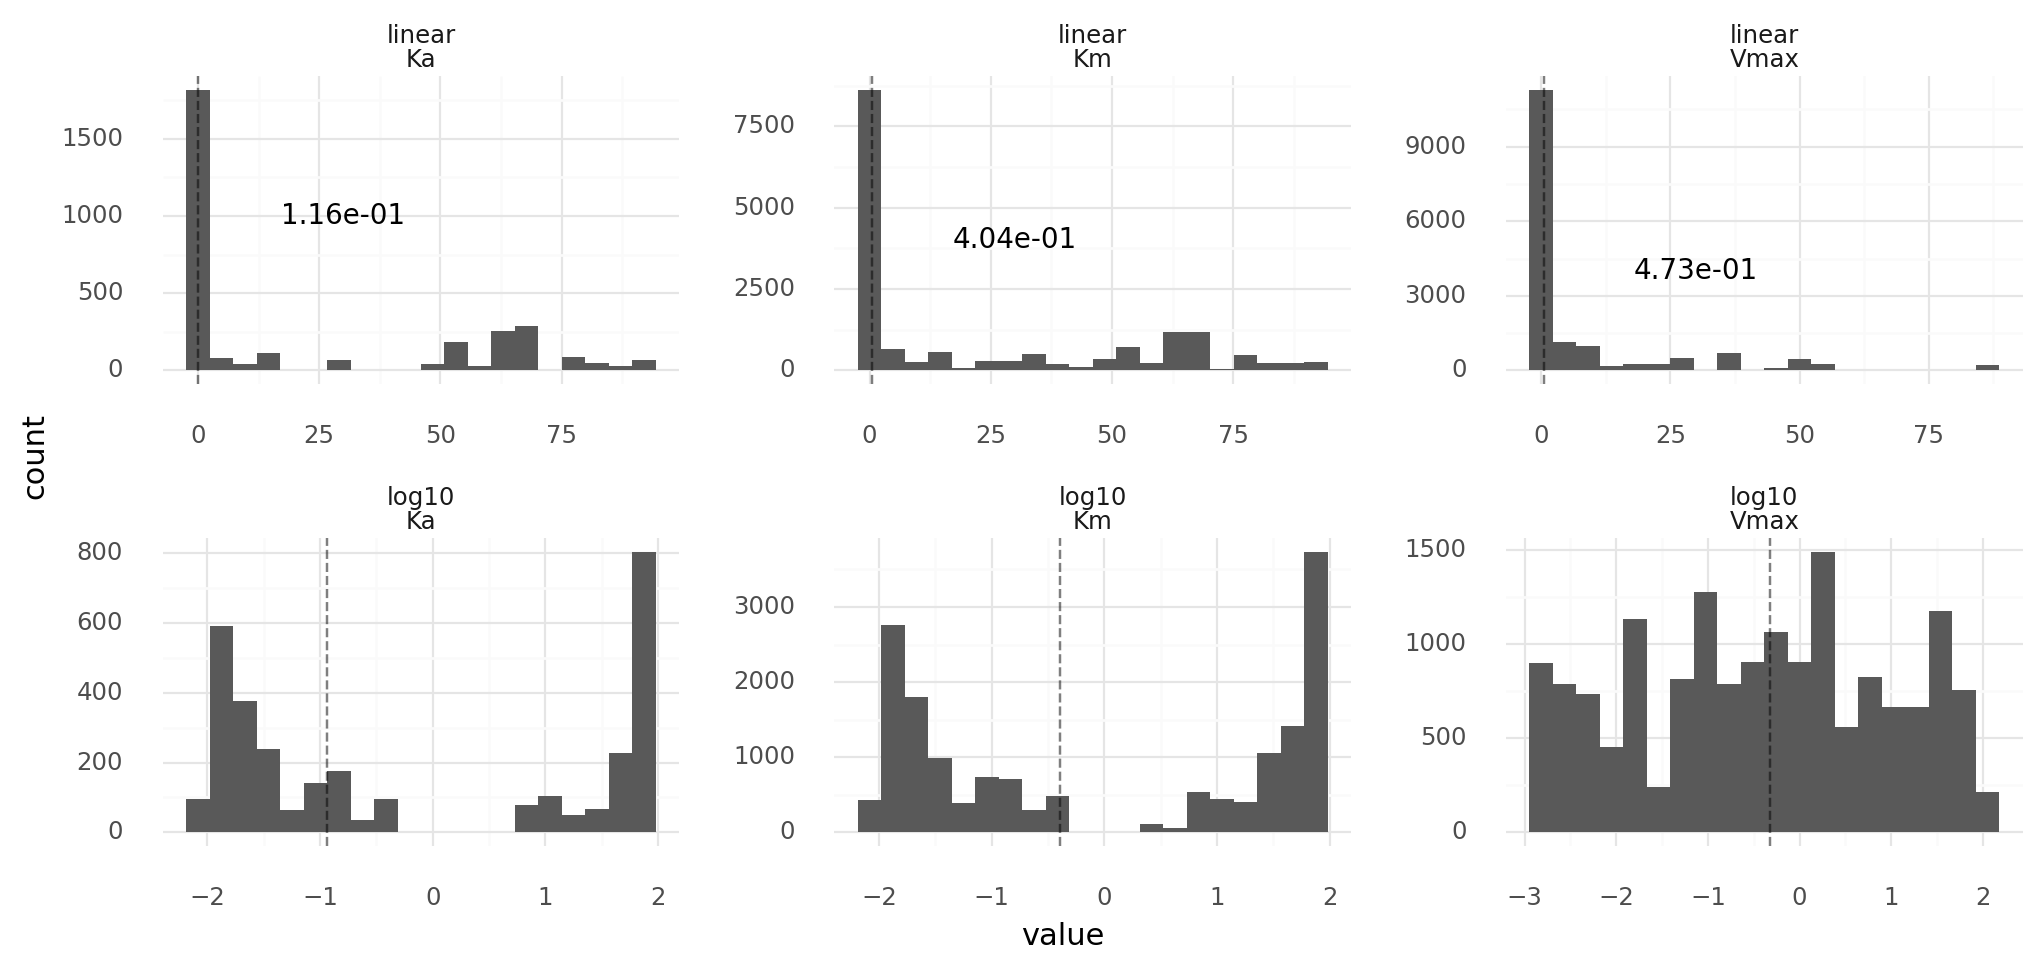
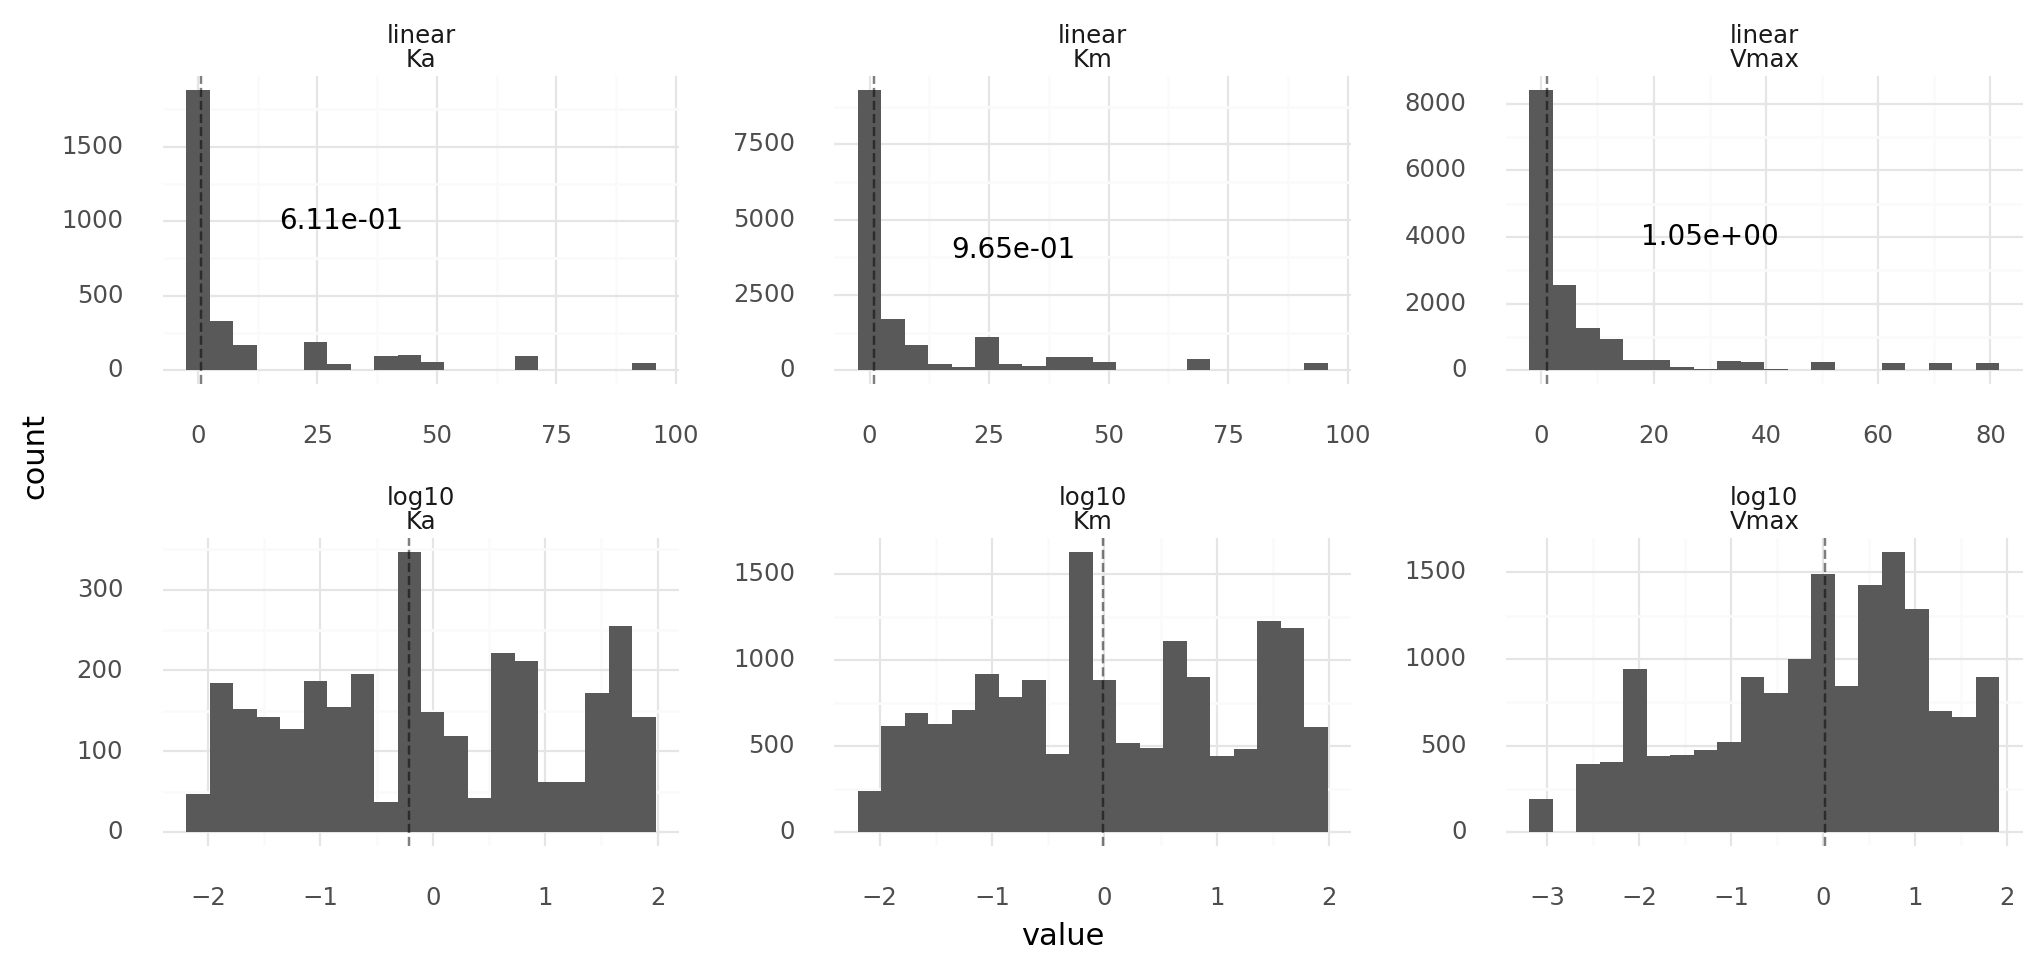
lognorm sampled Km are better

diff --git a/python/magicsoup/kinetics.py b/python/magicsoup/kinetics.py
@@ -13,9 +13,6 @@ _MAX = 1e36
 _MIN = -1e36
 
 
-# TODO: Km distributions are odd
-
-
 class _HillMapFact:
     """
     Creates an object that maps tokens to 1, 2, 3, 4, 5
@@ -38,46 +35,6 @@ class _HillMapFact:
         numbers_map[3] = torch.argwhere(M == 3.0).flatten().tolist()
         numbers_map[5] = torch.argwhere(M == 5.0).flatten().tolist()
         return numbers_map
-
-
-class _CustomWeightMapFact:
-    """
-    Creates an object that maps tokens to a float
-    which is sampled from a population. The population is a
-    uniform [1,max_weight] distribution which is then extended
-    with its reciprocal
-    """
-
-    def __init__(
-        self,
-        max_token: int,
-        weight_range: tuple[float, float],
-        device: str = "cpu",
-        zero_value: float = torch.nan,
-    ):
-        min_w = min(weight_range)
-        max_w = max(weight_range)
-        pop = [random.uniform(1.0, max_w) for _ in range(max_token)]
-        pop.extend([1 / d for d in pop])
-        pop = [d for d in pop if min_w <= d <= max_w]
-
-        non_zero_weights = random.choices(pop, k=max_token)
-        weights = torch.tensor([zero_value] + non_zero_weights)
-        self.weights = weights.to(device=device, dtype=torch.float32)
-
-    def __call__(self, t: torch.Tensor) -> torch.Tensor:
-        """t: long (c, p, d)"""
-        return self.weights[t]
-
-    def inverse(self) -> dict[float, list[int]]:
-        flt_map: dict[float, list[int]] = {}
-        M = self.weights.to("cpu")
-        for i in range(1, M.size(0)):
-            v = M[i].item()
-            if v not in flt_map:
-                flt_map[v] = []
-            flt_map[v].append(i)
-        return flt_map
 
 
 class _LogNormWeightMapFact:
@@ -456,7 +413,7 @@ class Kinetics:
         # idx3 is a 2-codon idx for vetors (n=4096)
         mol_2_mi = {d: i for i, d in enumerate(chemistry.molecules)}
 
-        self.km_map = _CustomWeightMapFact(
+        self.km_map = _LogNormWeightMapFact(
             max_token=scalar_enc_size,
             weight_range=km_range,
             device=device,
@@ -631,7 +588,7 @@ class Kinetics:
         Kmr_ds[Kmr_ds == 0.0] = torch.nan  # effectors introduce 0s
         Kmr = Kmr_ds.nanmean(dim=2).nan_to_num(0.0)  # (c,p,s)
 
-        # Kms of regulatory domains are already multiplied with Hill coefficients
+        # Kms of regulatory domains are already exponentiated with Hill coefficients
         self.Kmr[cell_idxs] = torch.pow(Kmr, A)
         self.A[cell_idxs] = A
 

diff --git a/docs/run.py b/docs/run.py
@@ -16,9 +16,6 @@ _this_dir = Path(__file__).parent
 _now = dt.datetime.now().strftime("%Y-%m-%d_%H-%M")
 
 
-# TODO: index, README docs
-
-
 def _log_scalars(
     step_i: int, writer: SummaryWriter, world: ms.World, mol_2_idx: dict[str, int]
 ):
